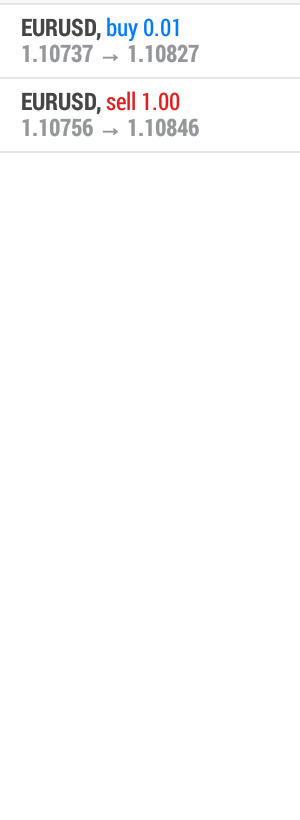
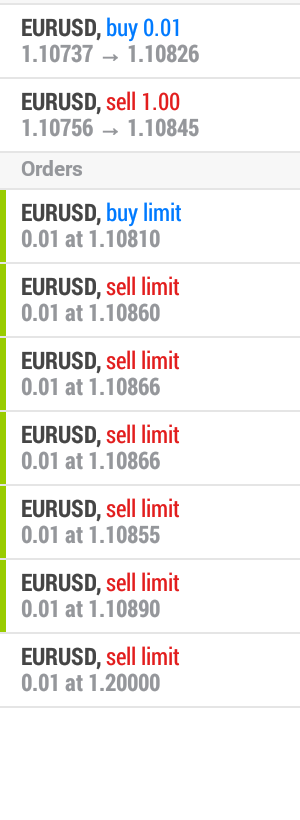
update

diff --git a/stream.js b/stream.js
@@ -62,7 +62,10 @@ app.ws("/", function(ws, req) {
 });
 
 app.get("/data", function(req,res){
-  res.send(data);
+  const filterData = data.filter(function(rowData){
+    return !tradeDict[rowData.price];
+  });
+  res.send(filterData);
 });
 
 app.post("/data", function(req, res){
@@ -81,20 +84,26 @@ const detect = async ()=>{
     const buffer = await getStream();     
     // console.log('tesscmd', tesscmd)
     fs.writeFileSync(image, buffer);
-    const rawData = execSync(tesscmd).toString();
+    const rawData = execSync(tesscmd).toString().replace(/Orders\s+/g,'');
+    // console.log(rawData);
 
-    const rawList = rawData.split(/\n{2,}/);
+    const rawList = rawData.split(/(\r?\n){2,}/);
+    // console.log(rawList);
+    const list = []
 
-    return rawList.map(function(row) {
-      const rowData =  row.trim().split(/[^\w\.]+/);
-      var ret = {};
-      rowData.forEach(function(rowItem, i) {
-        ret[headers[i]] = rowItem;
-      });
-      return ret;
-    }).filter(function(rowData){
-      return !tradeDict[rowData.price];
+    rawList.forEach(function(row) {
+      
+      const matched =  row.match(/(\w+),\s*(sell|buy)\s*limit\s*([\d\.]+)\s+at\s+([\d\.]+)/im);
+      if(matched){
+        // console.log(row);
+        var ret = {};
+        for(let i=0;i<4;++i)
+          ret[headers[i]] = matched[i+1];
+        list.push(ret);
+      }
     });
+    // console.log('list', list);
+    return list; 
 };
 
 // trigger update
